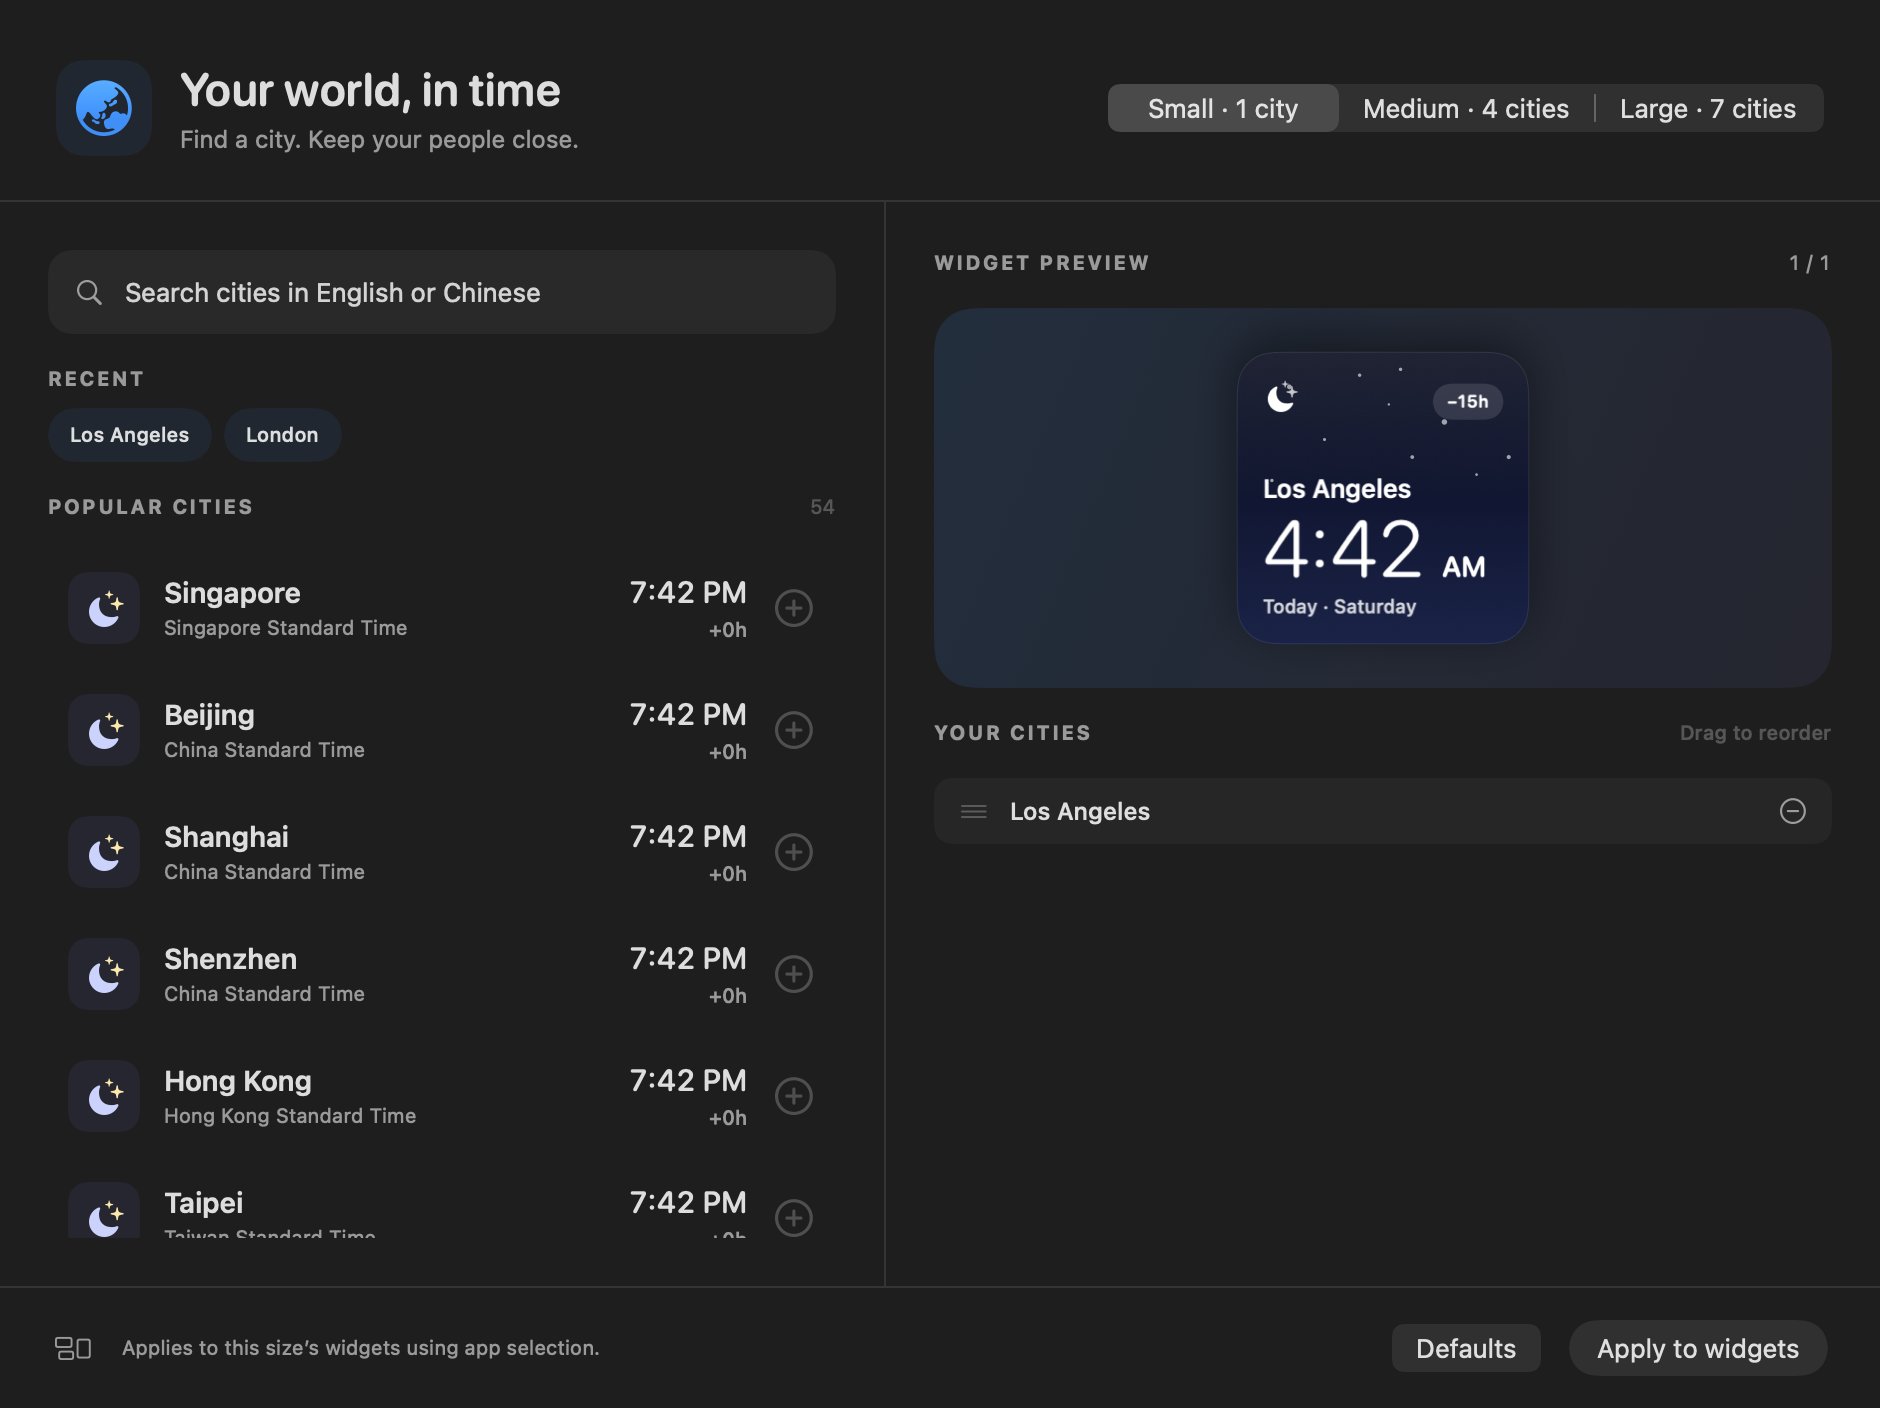
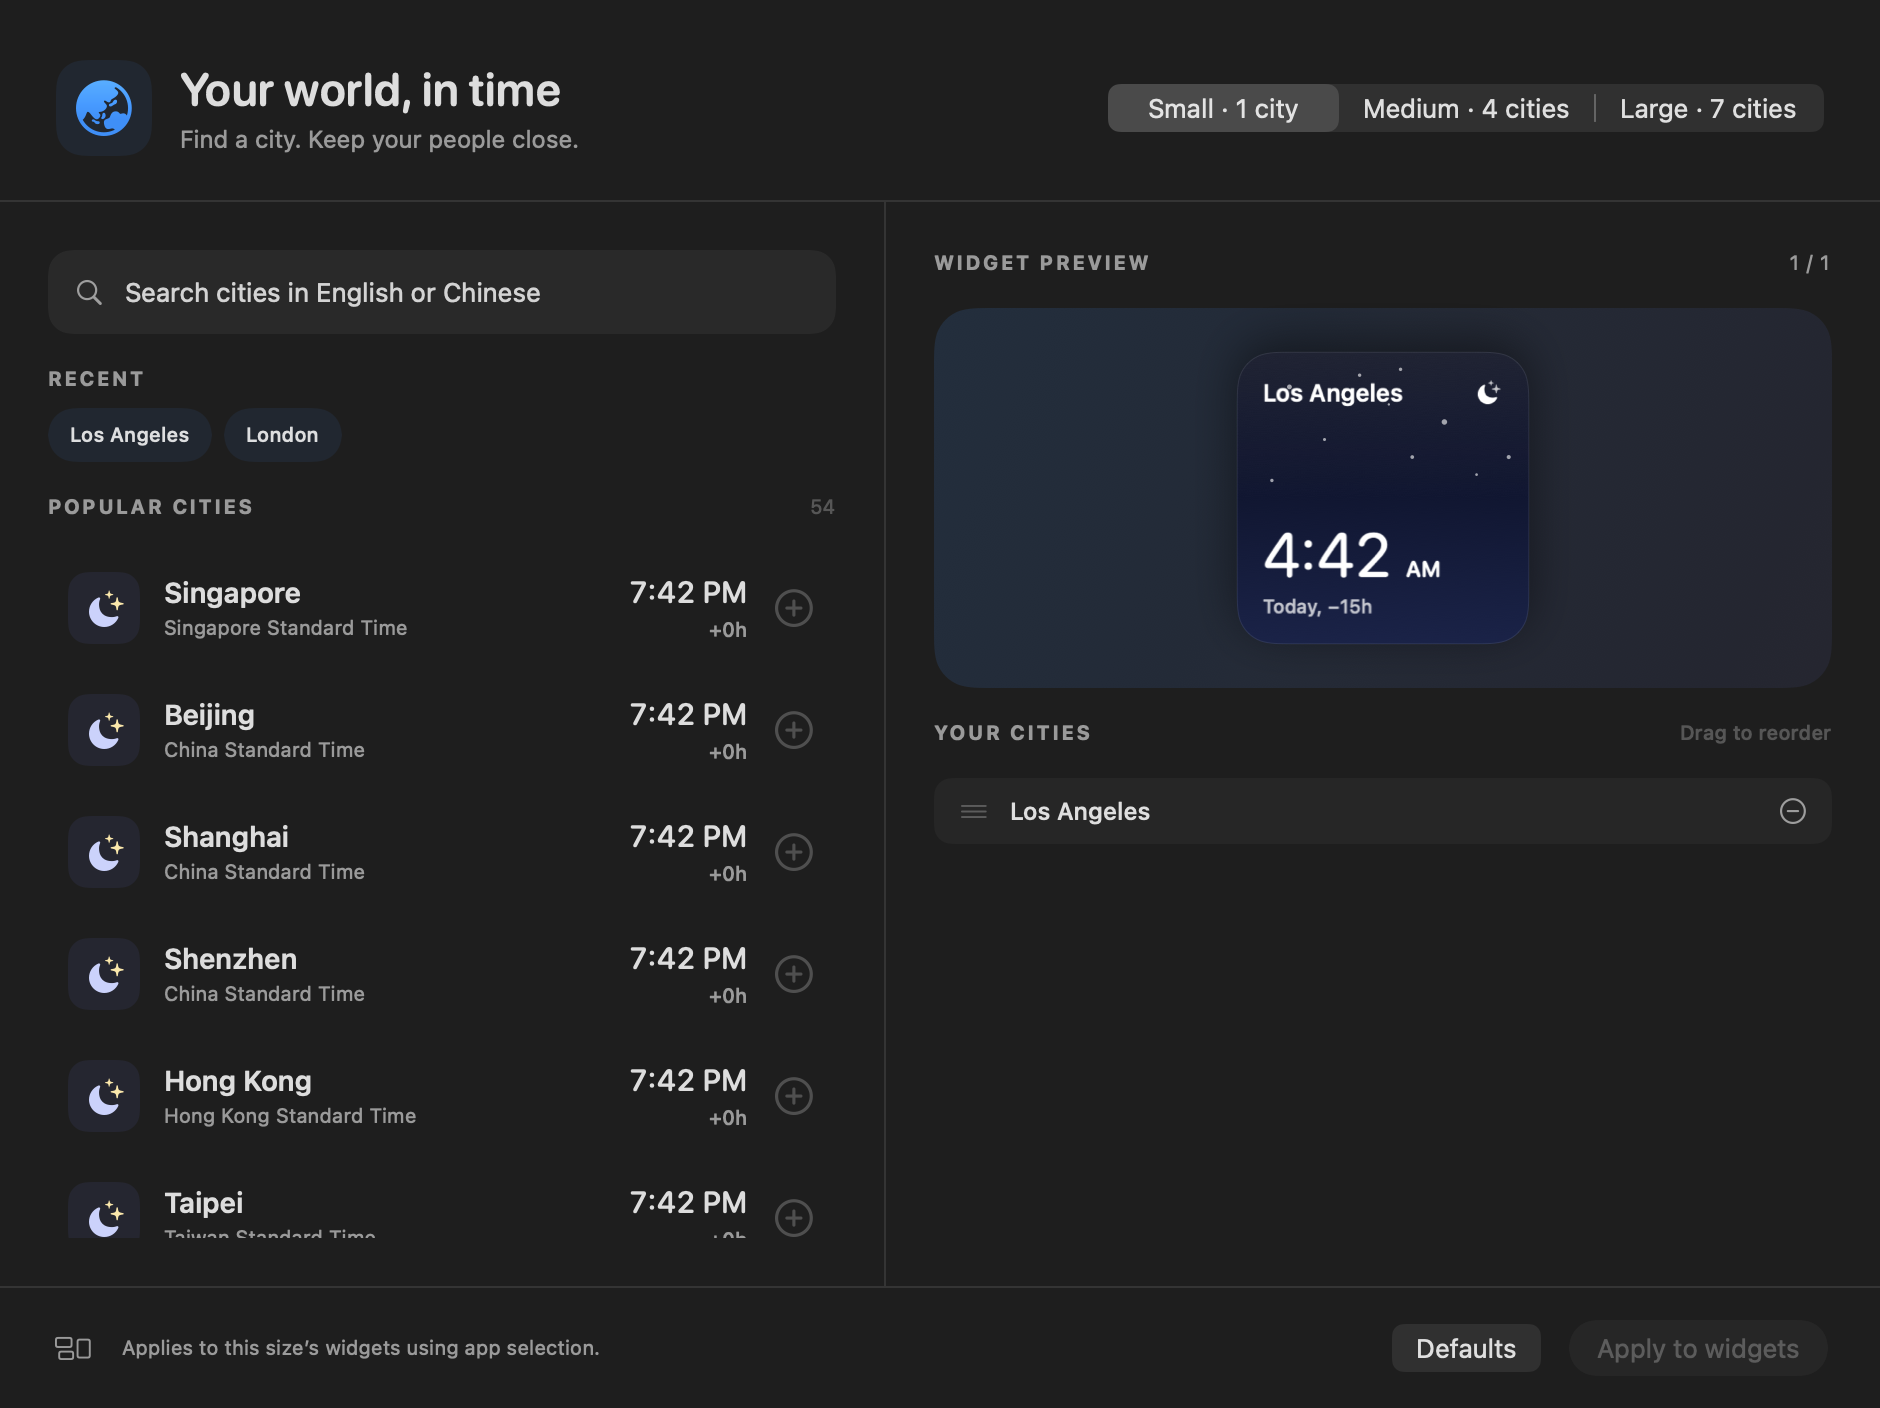
Calm down the small widget
Put the city name and day/night icon on one top row, shrink the time from
46pt light to 36pt regular, and replace the offset badge plus weekday line
with the same "Today, +1h" caption used by the other sizes. Refresh the
README screenshots.

Changed region(s): [[0.6787, 0.3438, 0.8021, 0.4375], [0.6787, 0.25, 0.8021, 0.3125], [0.833, 0.9375, 0.9564, 0.9688]]

diff --git a/Sources/Presentation/SmallCard.swift b/Sources/Presentation/SmallCard.swift
@@ -1,7 +1,7 @@
 import SwiftUI
 import WidgetKit
 
-/// One city on a live sky: phase icon and offset badge, then name, large time and local day.
+/// One city on a live sky: name and phase icon at the top, then the time and one caption line.
 struct SmallCard: View {
     let clock: CityClockState
     let snapshot: ClockSnapshot
@@ -9,32 +9,25 @@ struct SmallCard: View {
     @Environment(\.widgetRenderingMode) private var renderingMode
 
     var body: some View {
-        let text = ClockText(locale)
-        let weekday = ClockFormatting.weekdayString(snapshot.date, in: clock.zone, locale: locale, wide: true)
-
         VStack(alignment: .leading, spacing: 0) {
-            HStack(alignment: .firstTextBaseline) {
-                PhaseIcon(phase: clock.phase, size: 17, onSky: true)
-                    .padding(.leading, -2)
-                Spacer()
-                Text(text.offsetBadge(clock.offsetSeconds))
-                    .font(.system(size: 10, weight: .semibold, design: .rounded))
-                    .padding(.horizontal, 8)
-                    .padding(.vertical, 4)
-                    .background(.white.opacity(0.12), in: Capsule())
+            HStack(alignment: .center, spacing: 6) {
+                Text(clock.city.name(in: locale))
+                    .font(.system(size: 14, weight: .semibold))
+                    .lineLimit(1)
+                    .minimumScaleFactor(0.7)
+                Spacer(minLength: 0)
+                PhaseIcon(phase: clock.phase, size: 13, onSky: true)
             }
             Spacer(minLength: 0)
-            Text(clock.city.name(in: locale))
-                .font(.system(size: 15, weight: .semibold))
-                .lineLimit(1)
-                .minimumScaleFactor(0.7)
-            ClockTime(date: snapshot.date, zone: clock.zone, size: 46, weight: .light, live: snapshot.live)
+            ClockTime(date: snapshot.date, zone: clock.zone, size: 36, weight: .regular, live: snapshot.live)
                 .frame(maxWidth: .infinity, alignment: .leading)
-                .padding(.top, -2)
                 .widgetAccentable()
-            Text("\(text.relativeDay(clock.dayDelta)) · \(weekday)")
+            Text(ClockText(locale).caption(for: clock))
                 .font(.system(size: 11, weight: .medium))
-                .opacity(0.82)
+                .lineLimit(1)
+                .minimumScaleFactor(0.8)
+                .opacity(0.75)
+                .padding(.top, 2)
         }
         // White reads on the sky; tinted/monochrome modes have no sky, so use the system color.
         .foregroundStyle(renderingMode == .fullColor ? AnyShapeStyle(Color.white) : AnyShapeStyle(.primary))

diff --git a/Sources/Core/ClockText.swift b/Sources/Core/ClockText.swift
@@ -26,11 +26,6 @@ struct ClockText {
         return minutes == 0 ? "\(sign)\(hours)h" : "\(sign)\(hours):\(String(format: "%02d", minutes))h"
     }
 
-    /// The small card's badge: "Local" when there is no offset, otherwise the offset.
-    func offsetBadge(_ seconds: Int) -> String {
-        seconds == 0 ? (isChinese ? "本地" : "Local") : offset(seconds)
-    }
-
     /// Row subtitle, e.g. "Today, +1h" / "明天，+13小时" / "Today, same time".
     func caption(dayDelta: Int, offsetSeconds: Int) -> String {
         let day = relativeDay(dayDelta)

diff --git a/README.md b/README.md
@@ -12,7 +12,7 @@ Built with SwiftUI, WidgetKit and App Intents. No third-party runtime dependenci
 
 ## Features
 
-- **Small:** one city, large time, sky gradient, time difference and local day.
+- **Small:** one city on a day/night sky: name, time, and its day and time difference.
 - **Medium:** four cities in a 2×2 grid.
 - **Large:** seven cities with aligned times and slim 24-hour day ribbons.
 - Instant English/Chinese city search, recent selections, drag-to-reorder and live previews.
